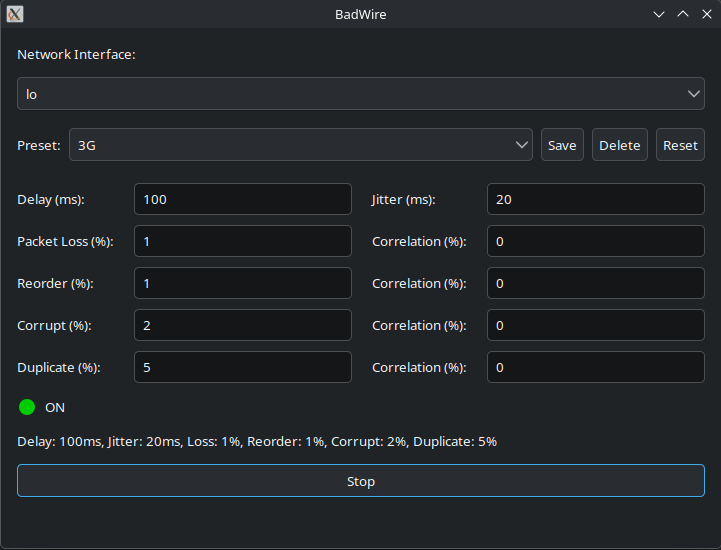
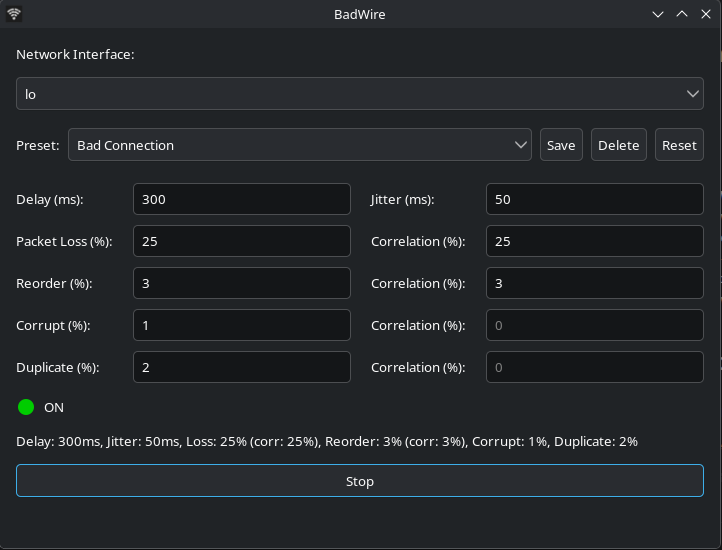
fix(): add other tc path for fix tc on mint, update version, update readme

diff --git a/README.md b/README.md
@@ -30,7 +30,6 @@ BadWire is a **simple GUI for simulating network problems** with `tc-netem`.
 Download the latest .deb from Releases and run:
 ~~~ bash
 sudo dpkg -i badwire_1.0.0_amd64.deb
-sudo apt install -f
 ~~~
 
 ### Arch
@@ -47,7 +46,7 @@ cd badwire
 cargo build --release
 sudo ./target/release/BadWire
 ~~~
-You can build everything (.tar.gz, .deb, and update PKGBUILD) with:
+You can build everything (.tar.gz, .deb, and update PKGBUILD) with script: scripts/build-all.sh
 
 ## AI Disclosure
 This project used AI-assisted development.
